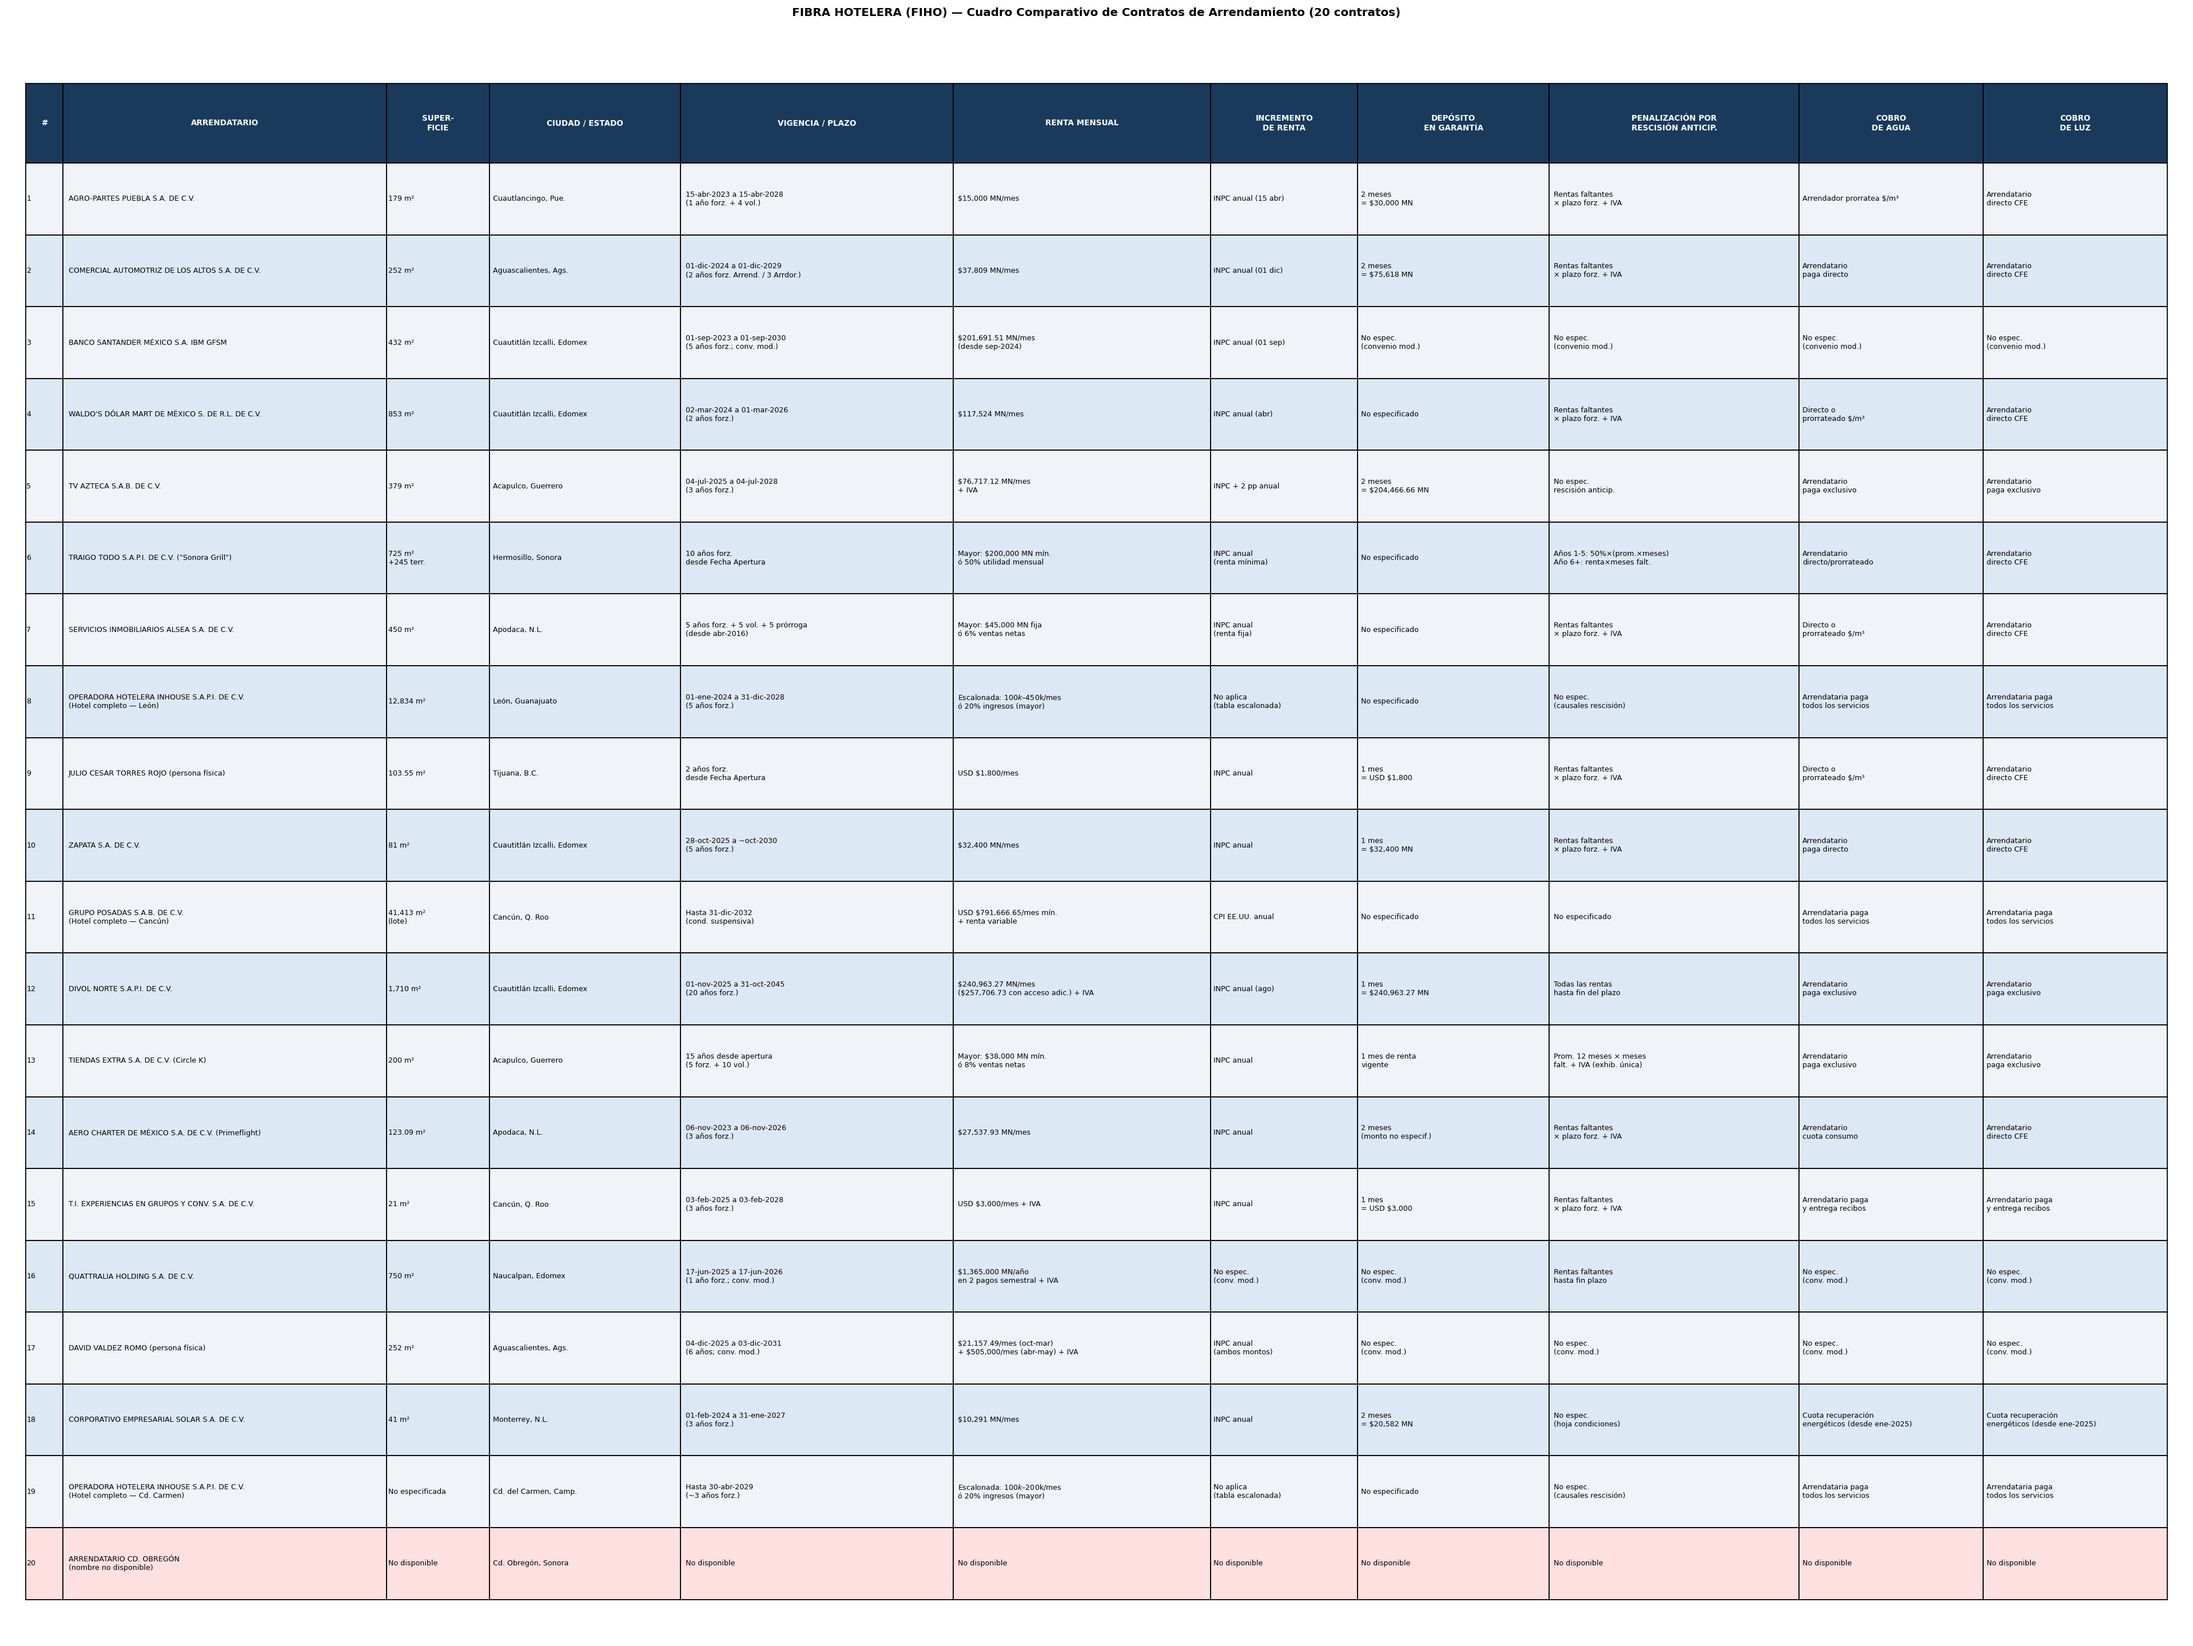
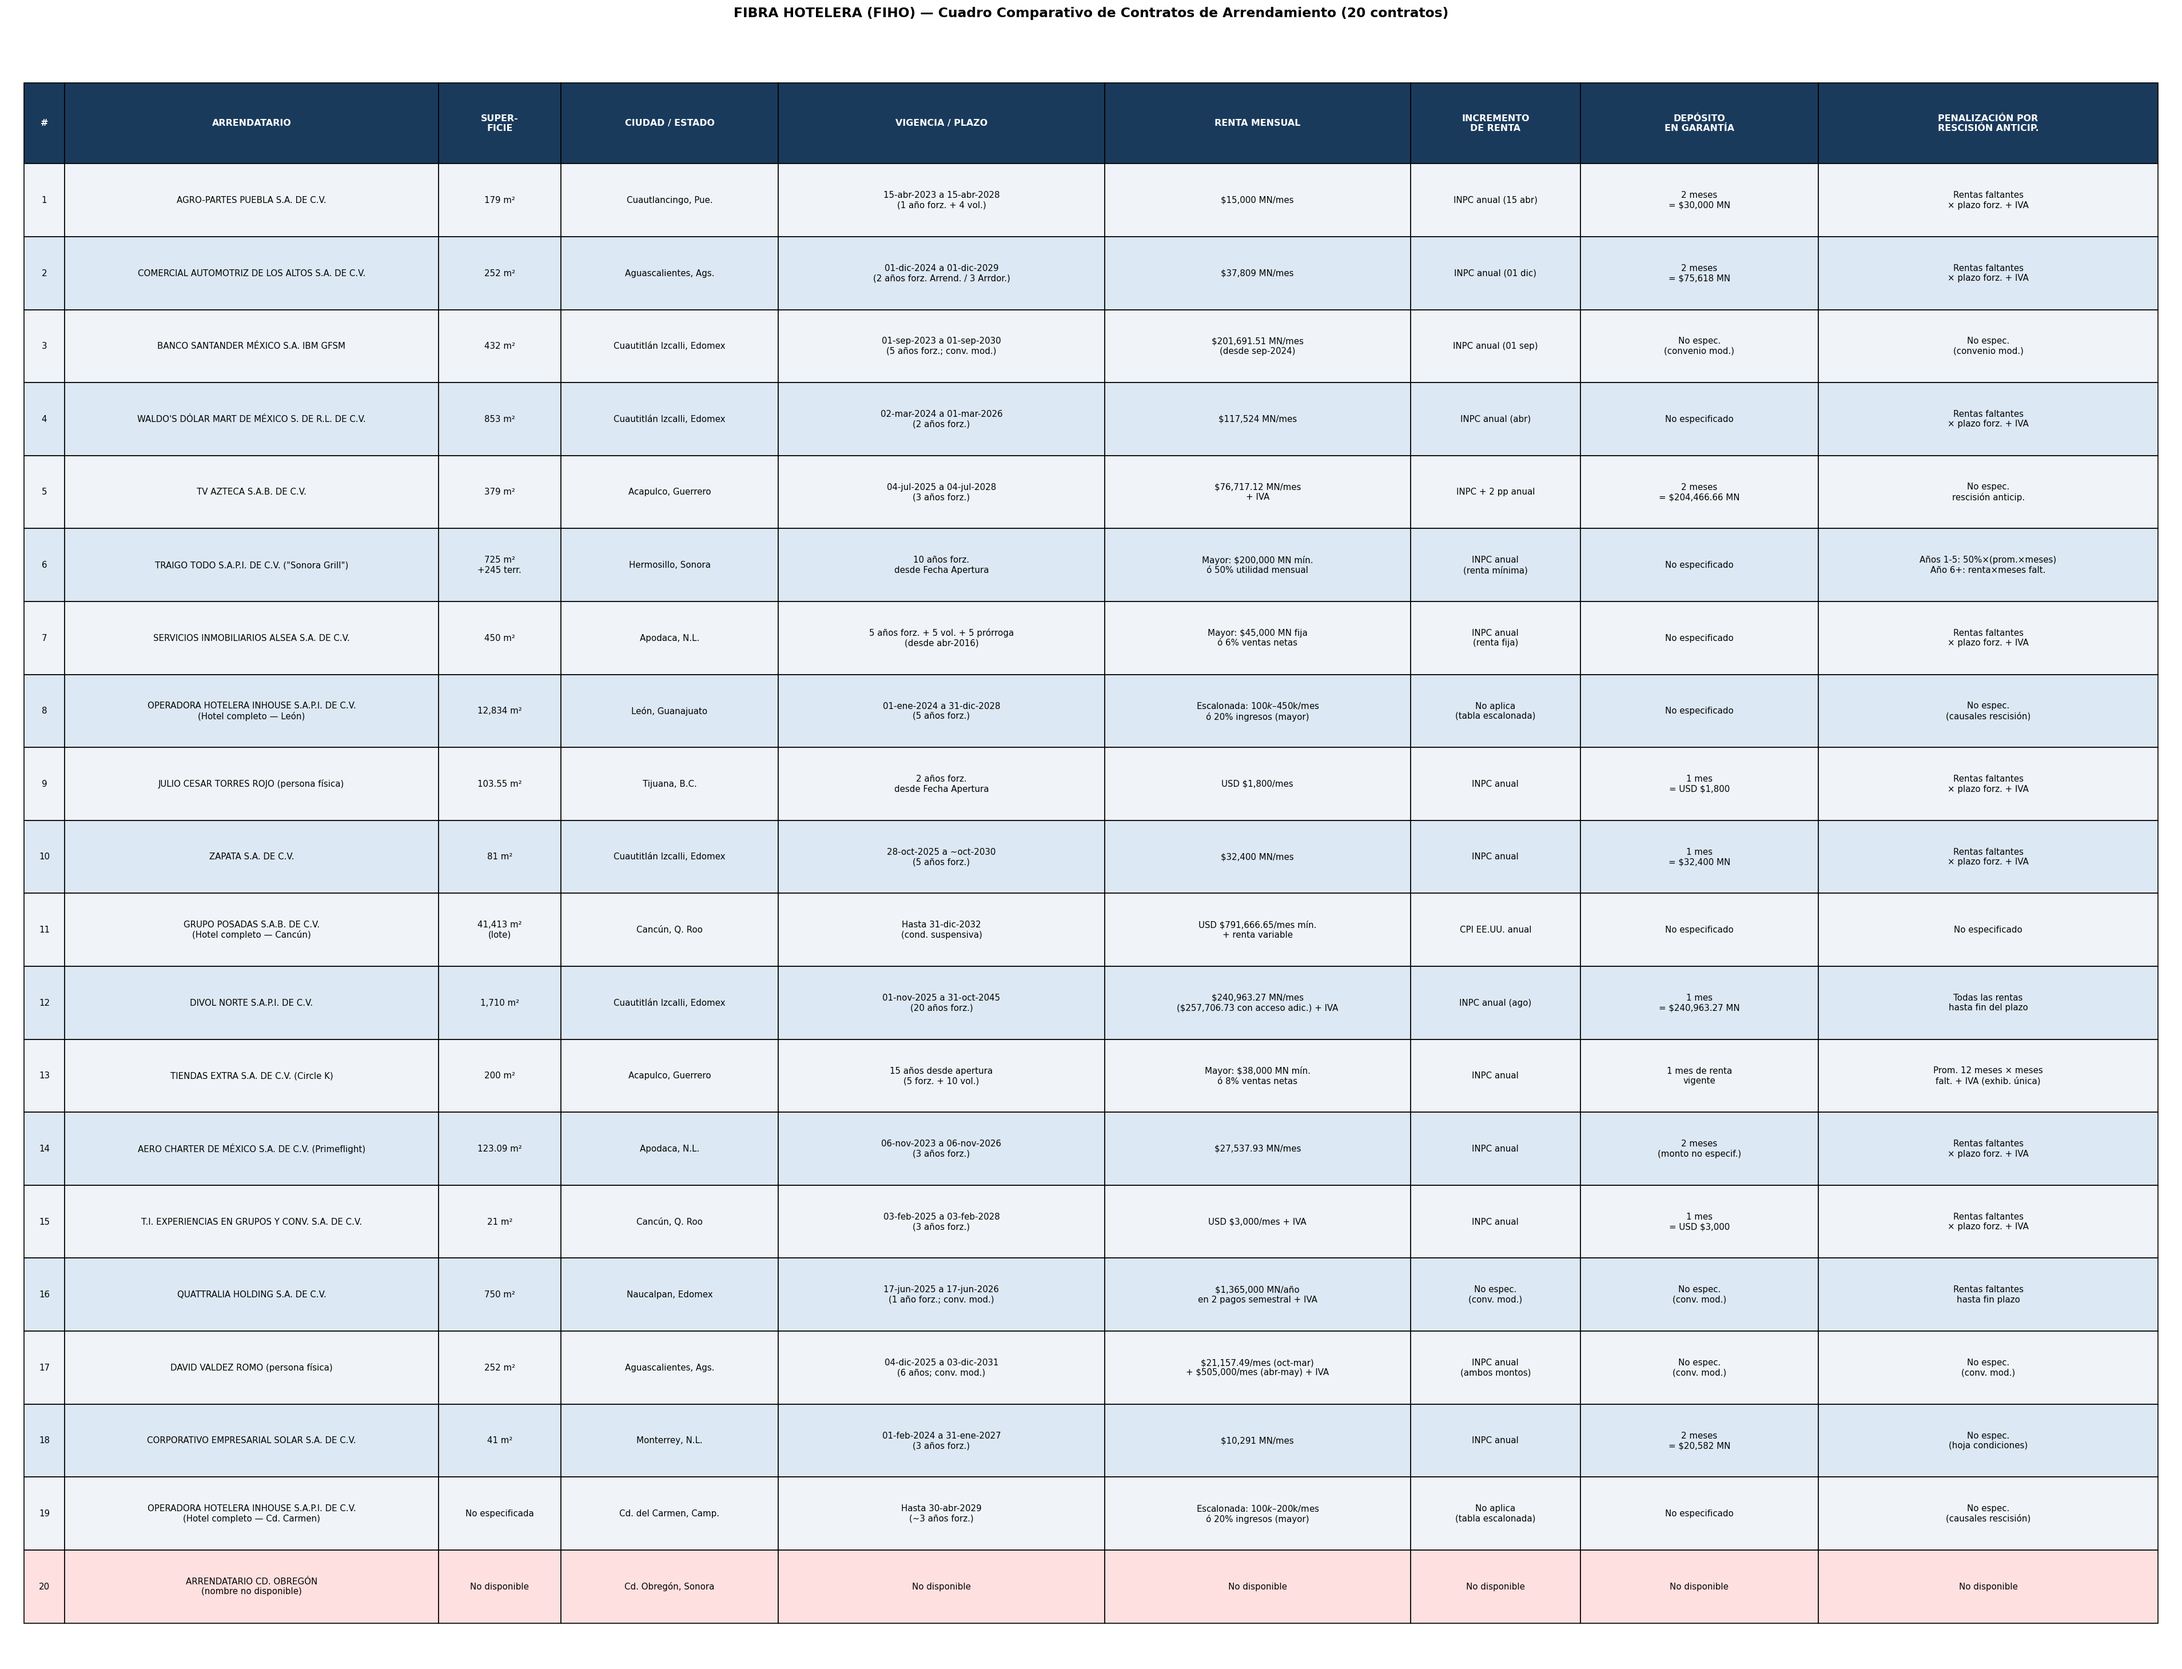
Mejorar legibilidad: letra más grande, centrado, sin columnas agua/luz
Aumenta fuente a 9pt, centra todo el texto, quita columnas de
cobro de agua y energía eléctrica, ajusta anchos para mantener
formato landscape (3816×2919 px, ratio 1.31:1).

https://claude.ai/code/session_01LkpQmy5php218sj1nNbFiT

diff --git a/generar_cuadro.py b/generar_cuadro.py
@@ -35,25 +35,23 @@ col_labels = [
     'INCREMENTO\nDE RENTA',
     'DEPÓSITO\nEN GARANTÍA',
     'PENALIZACIÓN POR\nRESCISIÓN ANTICIP.',
-    'COBRO\nDE AGUA',
-    'COBRO\nDE LUZ',
 ]
-keys = ['no','arrendatario','sup','ciudad','vigencia','renta','incr','deposito','penalizacion','agua','luz']
-# Landscape: ancho ~30", alto ~20"
-col_widths = [0.5, 4.4, 1.4, 2.6, 3.7, 3.5, 2.0, 2.6, 3.4, 2.5, 2.5]
+keys = ['no','arrendatario','sup','ciudad','vigencia','renta','incr','deposito','penalizacion']
+# Landscape sin columnas de agua y luz
+col_widths = [0.6, 5.5, 1.8, 3.2, 4.8, 4.5, 2.5, 3.5, 5.0]
 
 n_rows = len(contratos)
 n_cols = len(col_labels)
-row_height = 1.0
+row_height = 1.1
 
-fig_w = sum(col_widths) + 0.5   # ≈ 29.6"
-fig_h = n_rows * row_height + 2.2  # ≈ 22.2"
+fig_w = sum(col_widths) + 0.5   # ≈ 34.1"
+fig_h = n_rows * row_height + 2.4  # ≈ 24.4"
 fig, ax = plt.subplots(figsize=(fig_w, fig_h))
 ax.axis('off')
 
 fig.suptitle(
     'FIBRA HOTELERA (FIHO) — Cuadro Comparativo de Contratos de Arrendamiento (20 contratos)',
-    fontsize=11, fontweight='bold', y=0.995, x=0.5, ha='center'
+    fontsize=14, fontweight='bold', y=0.995, x=0.5, ha='center'
 )
 
 header_color = '#1a3a5c'
@@ -71,25 +69,25 @@ table = ax.table(
     cellColours=cell_colors,
     colWidths=[w / fig_w for w in col_widths],
     loc='center',
-    cellLoc='left',
+    cellLoc='center',
 )
 table.auto_set_font_size(False)
-table.set_fontsize(7.0)
+table.set_fontsize(9.0)
 
 for j in range(n_cols):
     cell = table[0, j]
     cell.set_facecolor(header_color)
-    cell.set_text_props(color='white', fontweight='bold', fontsize=7.5)
+    cell.set_text_props(color='white', fontweight='bold', fontsize=9.5)
     cell.set_height(0.05)
 
 for i in range(1, n_rows + 1):
     for j in range(n_cols):
         cell = table[i, j]
         cell.set_height(row_height / fig_h)
-        cell.PAD = 0.018
+        cell.PAD = 0.022
 
 plt.tight_layout(rect=[0, 0, 1, 0.993])
 out = '/home/user/Contratos-Arrendamiento/cuadro_contratos.png'
-plt.savefig(out, dpi=130, bbox_inches='tight', facecolor='white', edgecolor='none')
+plt.savefig(out, dpi=120, bbox_inches='tight', facecolor='white', edgecolor='none')
 plt.close()
 print(f"Guardado: {out}")
